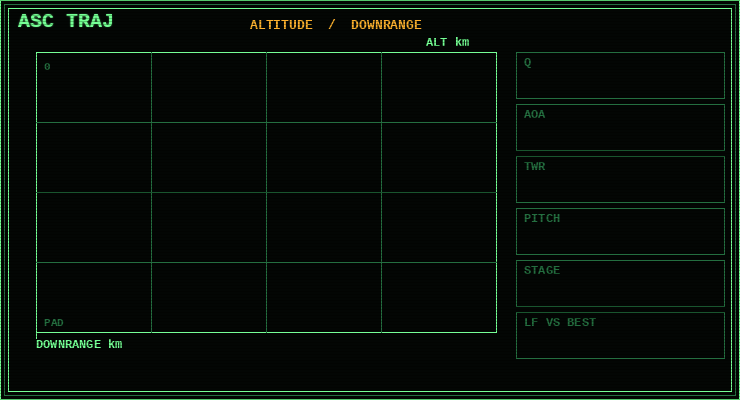
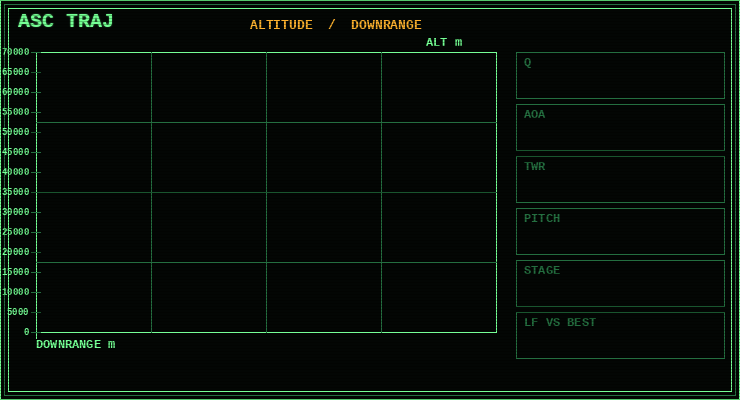
Label the ascent axes in meters and stop the plot at space.
Altitude ticks run 0, 5000, 10000 up to 70000. Downrange uses the same 5 km step. Once the ship is above 70 km and out of the atmosphere the arc freezes and AUTO leaves the page.

diff --git a/tools/make_crt_plates.py b/tools/make_crt_plates.py
@@ -78,8 +78,13 @@ def plate(name, title, subtitle, axis_x, axis_y, sides, extra=None):
     print(name, OX, OY, PW, PH)
 
 def asc_extra(d, im):
-    d.text((OX + 8, OY + 8), "0", font=font(11), fill=DIM)
-    d.text((OX + 8, OY + PH - 16), "PAD", font=font(11), fill=DIM)
+    # Y ticks are every 5 km from 0 to 70 km, drawn as meters.
+    # The plot rectangle is (36, 52, 460, 280). Live X labels use the same box.
+    for i in range(15):
+        km = i * 5
+        y = OY + PH - (km / 70.0) * PH
+        d.line((OX - 5, y, OX + 4, y), fill=DIM)
+        d.text((OX - 7, y), str(i * 5000), font=font(9), fill=GREEN, anchor="rm")
 
 def vs_extra(d, im):
     d.line((OX + PW, OY, OX + PW, OY + PH), fill=AMBER)
@@ -233,7 +238,7 @@ def budget_plate():
     print("crt_bdg")
 
 
-plate("crt_asc.png", "ASC TRAJ", "ALTITUDE  /  DOWNRANGE", "DOWNRANGE km", "ALT km",
+plate("crt_asc.png", "ASC TRAJ", "ALTITUDE  /  DOWNRANGE", "DOWNRANGE m", "ALT m",
       ["Q", "AOA", "TWR", "PITCH", "STAGE", "LF VS BEST"], asc_extra)
 plate("crt_vs.png", "VSIT", "ALTITUDE  /  RANGE TO SITE", "RANGE km   0 AT SITE", "ALT km",
       ["HDOT", "TWR", "MARGIN", "SITE", "RADAR", "LAND dV"], vs_extra)
